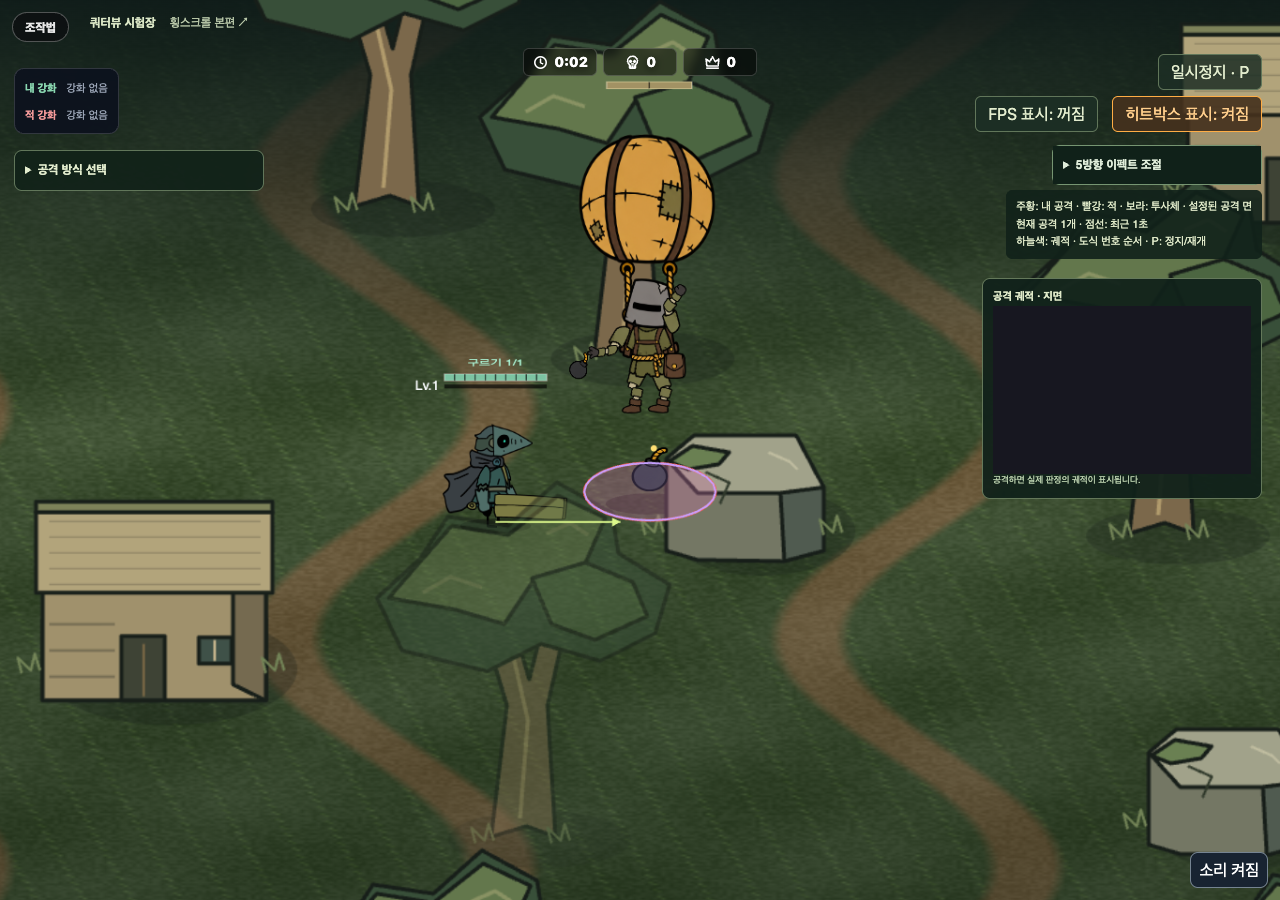
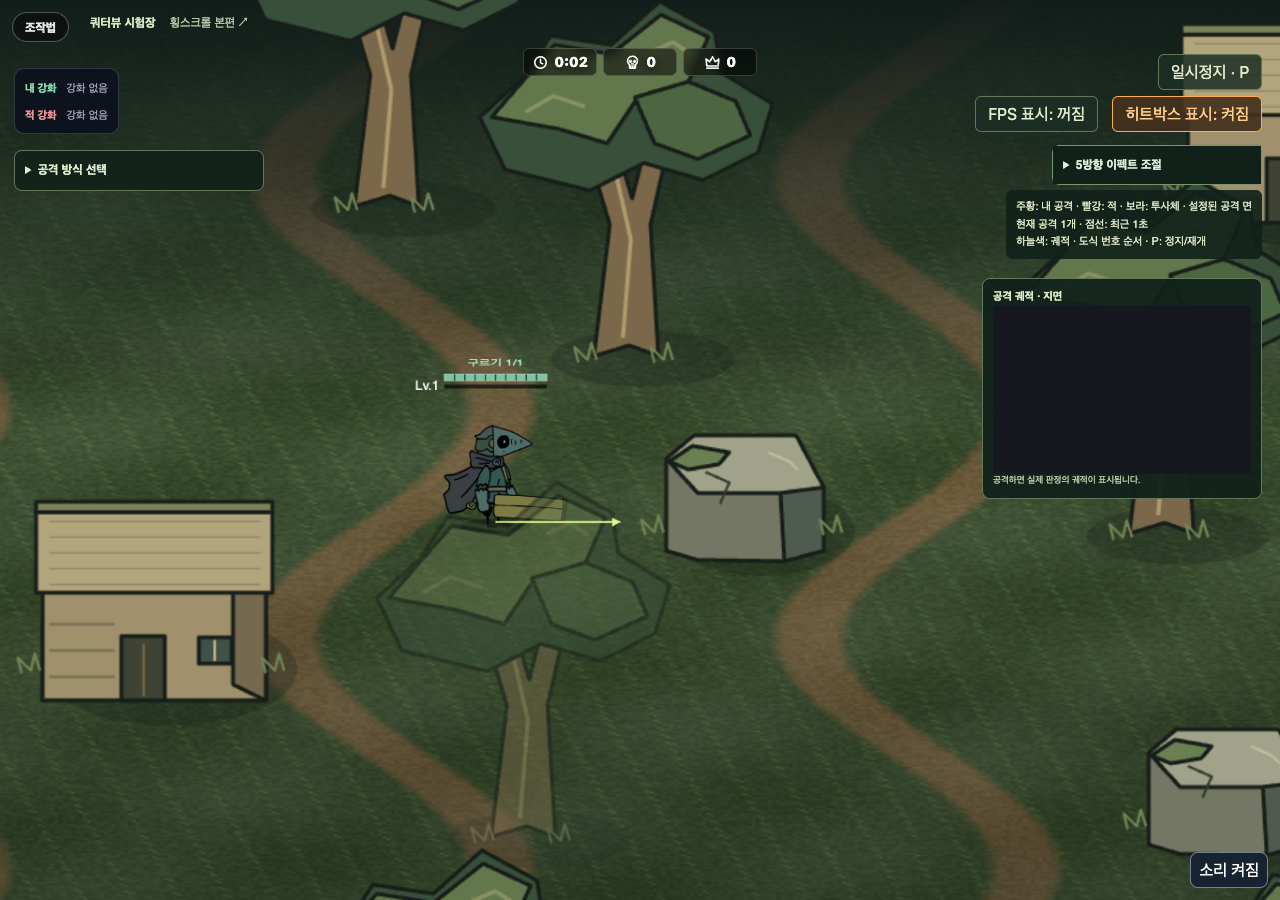
Verify balloon bomber alongside latest boss patterns

Changed region(s): [[0.4375, 0.0622, 0.5625, 0.4667], [0.4375, 0.4978, 0.5625, 0.5911]]

diff --git a/docs/sprint-dashboard.html b/docs/sprint-dashboard.html
@@ -179,7 +179,7 @@
       <section class="card">
         <h2>풍선 폭격병 · 2026-10-27</h2>
         <p>잡몹 디자인 15개 파츠와 PSD. 공중에서 1.8초 간격 폭탄 투하, 점프 공격으로 풍선을 터뜨리면 추락하여 사망합니다.</p>
-        <p>관련 JS 92개 통과. 실제 쿼터뷰 점프 공격·처치 1회 확인. 기존 PSD 13개 및 캐릭터 8종 데이터 보존.</p>
+        <p>관련 JS 107개 통과. 실제 쿼터뷰 점프 공격·처치 1회 확인. 기존 PSD 13개 및 캐릭터 8종 데이터 보존.</p>
         <p><a href="../dev/balloon-bomber/">실시간 시연</a> · <a href="../outputs/balloon-bomber/hover-drop-crash.mp4">8초 영상</a></p>
       </section>
 
@@ -473,7 +473,7 @@
       <section>
         <h2>쿼터뷰 플레이 시험장 — 2026-10-23</h2>
         <p>기존 캐릭터로 8방향 이동·방향 공격·회피·웨이브를 시험합니다. 본편과 분리된 시점/전투 실험입니다.</p>
-        <p>Node 92개 / Python 28개 및 추가 파일 린트·포맷 통과. 기존 전체 린트 오류 11개는 별도입니다.</p>
+        <p>Node 107개 / Python 28개 및 추가 파일 린트·포맷 통과. 기존 전체 린트 오류 11개는 별도입니다.</p>
         <p><a href="../quarter-view.html">쿼터뷰 시험장 플레이 ↗</a></p>
       </section>
       <header>

diff --git a/docs/99_TASK_REPORT.md b/docs/99_TASK_REPORT.md
@@ -2,7 +2,7 @@
 
 - 승인된 잡몹 디자인의 15개 독립 부속·새 15레이어 PSD 추가. 회색 투구·낡은 군복·기운 풍선 유지. 크기 0.8, 부유 높이 60으로 일반 점프 공중 공격이 닿도록 실제 게임에서 조정.
 - 1.8초 간격 수직 폭탄 투하(첫 1.2초), 착지 후 1.25초 예고·기본 15 피해. 풍선만 피격 대상이며 지상 공격/투사체 제외. 유효한 공중 공격 한 번에 파열→투하 중단→거꾸로 추락→지면 충돌 사망/보상 1회. 동시 2명, 재출현 12초.
-- 전용 10개 포함 관련 JS 92개 통과. 대상 ESLint/Prettier와 Python 문법 확인. 실제 쿼터뷰 Space→Q로 파열·추락·처치 수 증가 확인. 시연 영상 `outputs/balloon-bomber/hover-drop-crash.mp4`.
+- 전용 10개 포함 관련 JS 107개 통과. 대상 ESLint/Prettier와 Python 문법 확인. 실제 쿼터뷰 Space→Q로 파열·추락·처치 수 증가 확인. 시연 영상 `outputs/balloon-bomber/hover-drop-crash.mp4`.
 - 기존 PSD 13개 SHA-256 및 기존 캐릭터 8종 저장 데이터 보존. 다른 보스 변경과 분리된 작업 공간에서 제작. 이미지 생성 기록과 슬롯 대응은 에셋 README에 기록.
 - 보고서·대시보드 갱신. 누적 보고서/대시보드의 과거 기록 분리를 권장하며, 반복 읽기와 토큰 부담을 줄일 수 있음. 전용 부유/사망 로직은 별도 작은 모듈로 유지.
 
@@ -1058,7 +1058,7 @@
 
 ## 검증 결과
 
-- Node 92개와 Python 28개 통과. 쿼터뷰 전용 4개 테스트는 투영/방향/거리/쿨다운/회피/정지/사망/경계/웨이브를 검증한다.
+- Node 107개와 Python 28개 통과. 쿼터뷰 전용 4개 테스트는 투영/방향/거리/쿨다운/회피/정지/사망/경계/웨이브를 검증한다.
 - 새 JS 문법 검사, 해당 파일 ESLint 및 Prettier 통과. 전체 ESLint에는 기존 3개 파일의 브라우저 전역 변수 선언 누락 11개가 남아 있다.
 - 로컬 브라우저에서 실제 에셋 표시, 이동/공격/회피 키 입력, 체력/웨이브/사망/재시작/정지 화면을 확인했고 콘솔 오류/경고는 없었다. 모바일 실기기 검증은 미실시다.
 

diff --git a/outputs/balloon-bomber/README.md b/outputs/balloon-bomber/README.md
@@ -2,7 +2,7 @@
 
 - `hover-drop-crash.mp4`: 실제 렌더러로 8초간 공중 폭탄 투하 → 풍선 파열 → 추락/지면 충돌. 영상의 파열은 시연 버튼으로 발생시켰습니다.
 - `quarter-hover.png`, `quarter-jump-hit.png`, `quarter-impact.png`: 실제 쿼터뷰에서 Space 점프 후 Q 공격으로 풍선 파열 및 처치 수 1 증가를 확인. 브라우저 응답에서 해당 적만 가까운 위치에 출현시킨 검증 배치로, 저장 출현 설정은 그대로입니다.
-- `tests.log`: 전용 10개 포함 관련 JS 92개 통과. 지상/공중/투사체 구분, 연속 투하, 수직 낙하·폭발, 사망 시점과 중복 보상 방지, 쿼터뷰 높이/깊이, 일시정지·리셋 확인.
+- `tests.log`: 전용 10개 포함 관련 JS 107개 통과. 지상/공중/투사체 구분, 연속 투하, 수직 낙하·폭발, 사망 시점과 중복 보상 방지, 쿼터뷰 높이/깊이, 일시정지·리셋 확인.
 - `original-psd-hashes.json`: 작업 전 기존 PSD 13개 SHA-256. 모두 원본 그대로 보존.
 
 기존 캐릭터 8종의 저장 데이터도 그대로 유지했습니다. 새 부속은 15개 게임 파츠와 추가 파열 이미지, 15레이어 PSD입니다.
